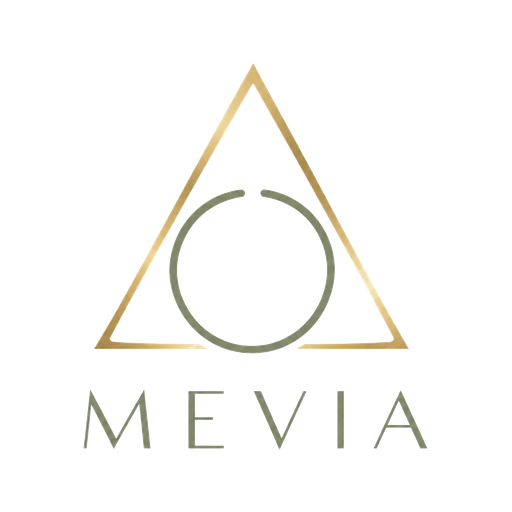
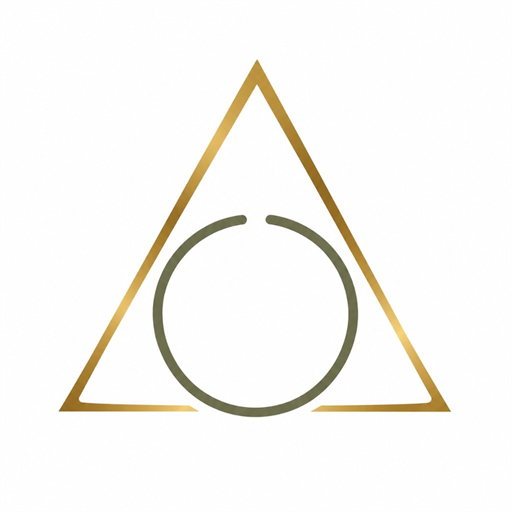
altera fundo masculino

Changed region(s): [[0.0938, 0.125, 0.875, 0.875], [0.8125, 0.8438, 0.8438, 0.875], [0.7188, 0.8438, 0.75, 0.875]]

diff --git a/index.html b/index.html
@@ -9,11 +9,11 @@
   <meta name="apple-mobile-web-app-status-bar-style" content="default" />
   <meta name="apple-mobile-web-app-title" content="MEVIA" />
   <meta name="description" content="Saúde, evolução e desenvolvimento da criança em um só lugar." />
-  <link rel="manifest" href="manifest.json" />
-  <link rel="apple-touch-icon" href="icons/apple-touch-icon.png?v=5" />
-  <link rel="icon" href="icons/favicon.ico?v=5" sizes="any" />
-  <link rel="icon" type="image/png" href="icons/favicon.png?v=5" />
-  <link rel="stylesheet" href="styles.css?v=64" />
+  <link rel="manifest" href="manifest.json?v=6" />
+  <link rel="apple-touch-icon" href="icons/apple-touch-icon.png?v=6" />
+  <link rel="icon" href="icons/favicon.ico?v=6" sizes="any" />
+  <link rel="icon" type="image/png" href="icons/favicon.png?v=6" />
+  <link rel="stylesheet" href="styles.css?v=66" />
   <script defer src="https://cdnjs.cloudflare.com/ajax/libs/jspdf/2.5.1/jspdf.umd.min.js"></script>
   <script defer src="https://cdnjs.cloudflare.com/ajax/libs/qrcodejs/1.0.0/qrcode.min.js"></script>
   <script defer src="growth-reference.js"></script>
@@ -478,7 +478,7 @@
 
   <nav class="bottom-nav" aria-label="Navegação inferior">
     <button type="button" class="bottom-nav-btn active" data-tab-target="inicio"><span aria-hidden="true">🏠</span><small>Home</small></button>
-    <button type="button" class="bottom-nav-brand" data-tab-target="inicio" aria-label="MEVIA"><img src="icons/favicon.png?v=5" alt="" /></button>
+    <button type="button" class="bottom-nav-brand" data-tab-target="inicio" aria-label="MEVIA"><img src="icons/favicon.png?v=6" alt="" /></button>
     <button type="button" class="bottom-nav-btn" data-tab-target="perfilconfig"><span aria-hidden="true">👤</span><small>Perfil</small></button>
   </nav>
 <footer class="app-footer">

diff --git a/service-worker.js b/service-worker.js
@@ -1,23 +1,24 @@
-const CACHE_NAME = 'crescer-juntos-v67-cache';
+const CACHE_NAME = 'crescer-juntos-v69-cache';
 const CORE_ASSETS = [
   './',
   './index.html',
-  './styles.css?v=64',
+  './styles.css?v=66',
   './dnp-catalog.js?v=38',
   './dnp.js?v=53',
   './app.js?v=50',
   './growth-reference.js?v=33',
   './growth-reference-ext.js?v=33',
-  './manifest.json?v=33',
-  './icons/icon-192.png',
-  './icons/icon-512.png',
-  './icons/icon-maskable-512.png',
-  './icons/apple-touch-icon.png',
-  './icons/favicon.png',
-  './icons/favicon.ico',
+  './manifest.json?v=6',
+  './icons/icon-192.png?v=6',
+  './icons/icon-512.png?v=6',
+  './icons/icon-maskable-512.png?v=6',
+  './icons/apple-touch-icon.png?v=6',
+  './icons/favicon.png?v=6',
+  './icons/favicon.ico?v=6',
   './icons/logo-main.png',
   './assets/mevia-logo-transparente.png',
-  './assets/mevia-fundo-masculino.jpg',
+  './assets/mevia-fundo-masculino.jpg?v=6',
+  './assets/mevia-fundo-masculino-desktop.jpg?v=6',
   './assets/mevia-fundo-feminino.jpg'
 ];
 

diff --git a/styles.css b/styles.css
@@ -2262,3 +2262,22 @@ html { scroll-padding-bottom: calc(108px + env(safe-area-inset-bottom)); }
   .dnp-pdf-btn { width: 100%; white-space: normal; }
   .dnp-entry-section { flex-basis: 100%; }
 }
+body[data-theme="infantil-masculino"] .mevia-scene-bg {
+  background-image: url("./assets/mevia-fundo-masculino.jpg?v=6");
+  background-repeat: no-repeat;
+  background-position: center center;
+  background-size: cover;
+}
+@media (min-width: 641px) {
+  body[data-theme="infantil-masculino"] .mevia-scene-bg {
+    background-image: url("./assets/mevia-fundo-masculino-desktop.jpg?v=6");
+  }
+}
+body[data-theme="infantil-masculino"] #inicio .hero-logo {
+  visibility: hidden;
+}
+body[data-theme="infantil-masculino"] .app-header {
+  background: transparent;
+  border-bottom-color: transparent;
+  backdrop-filter: none;
+}
